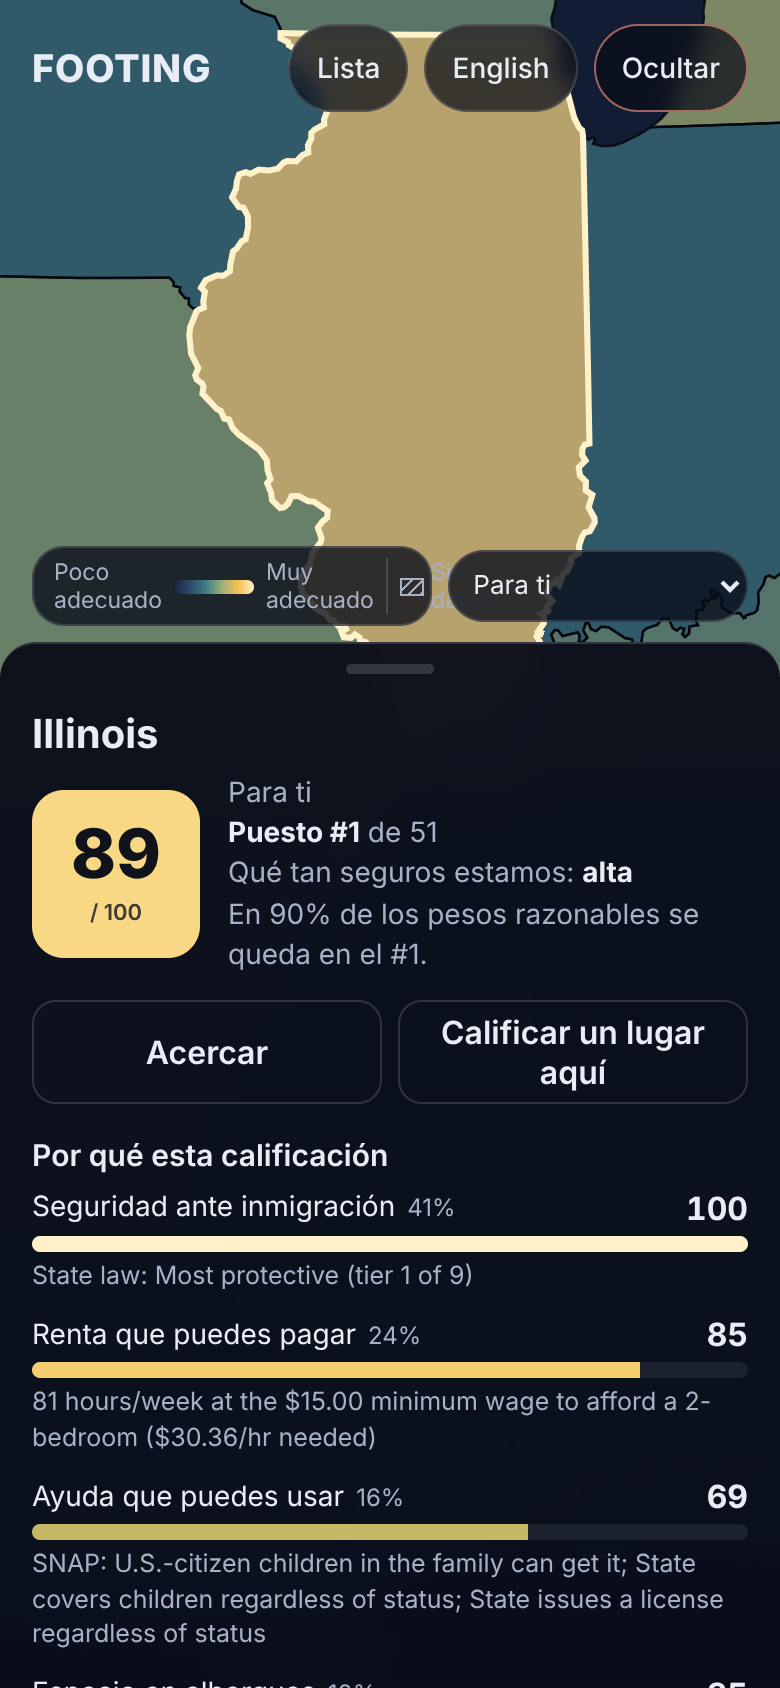
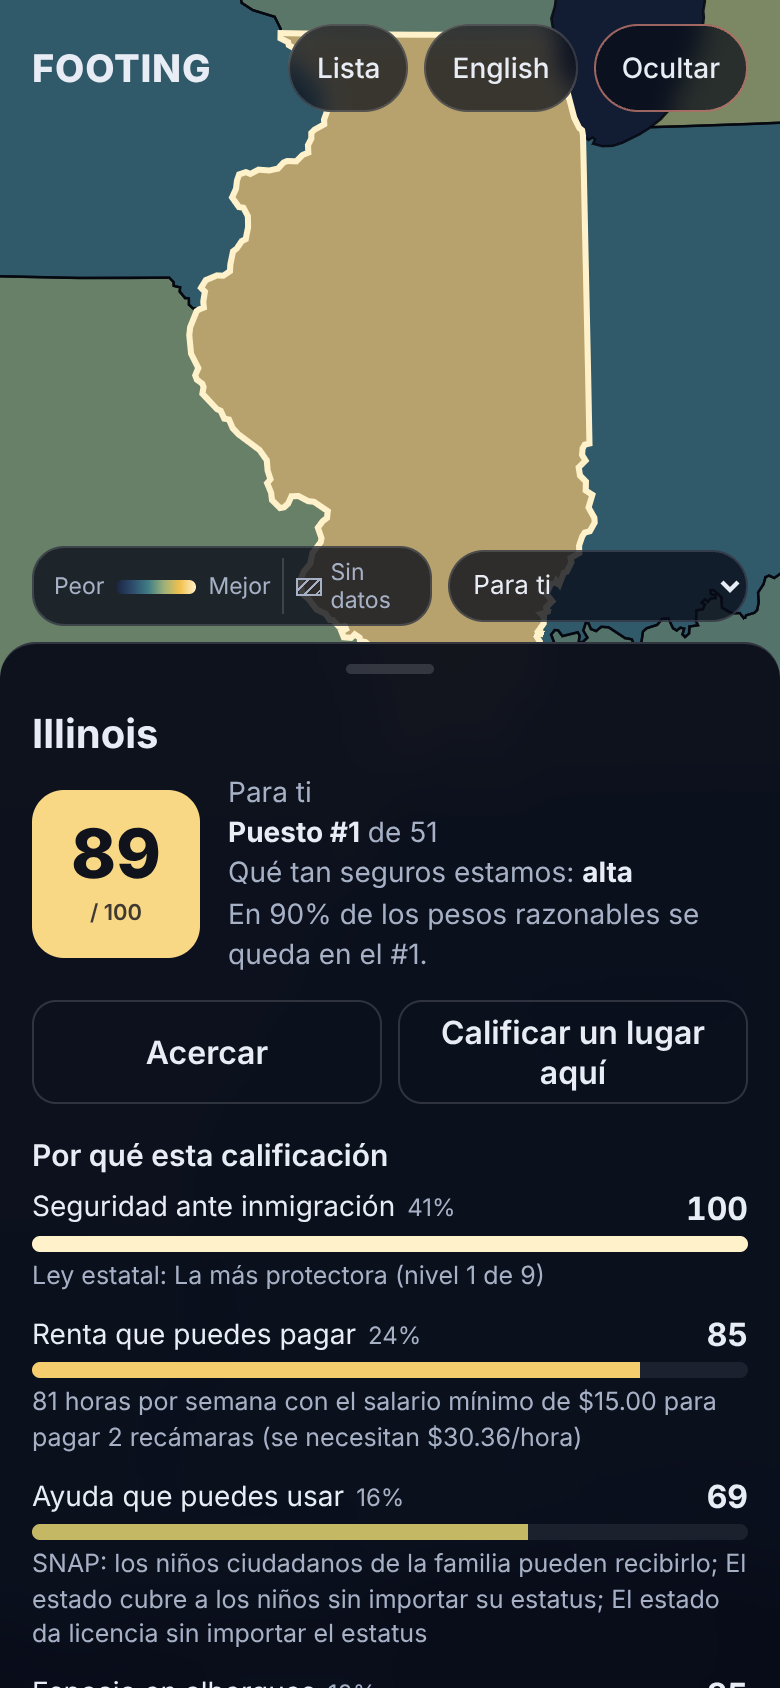
Ratings: reject NaN/inf/out-of-range coordinates (was a 500); add an in-memory per-network daily limit
Device tokens are minted by the phone, so the per-device cap alone could be bypassed by a script.
Addresses are hashed with a per-process salt and never stored. Docs and screenshots refreshed.

Claude-Session: https://claude.ai/code/session_019xmk1cFtfAvRTZQNR8T5XY

diff --git a/footing/api.py b/footing/api.py
@@ -5,7 +5,9 @@ logged or stored per user. Endpoints live under /api; the app itself is served a
 """
 from __future__ import annotations
 
+import hashlib
 import json
+import secrets
 import time
 from pathlib import Path
 
@@ -137,8 +139,34 @@ def policy() -> dict:
     return {"states": load_policy(), "eligibility": load_eligibility()}
 
 
+# The device token is made by the phone, so a script can mint a new one per request and get around the
+# per-device limit. This second limit counts ratings per network address per day, in memory only: the address
+# is hashed with a per-process salt, never written to disk, and the table resets with the process.
+IP_LIMIT_PER_DAY = 40
+_IP_SALT = secrets.token_hex(16)
+_IP_COUNTS: dict[str, list[float]] = {}
+
+
+def _ip_allowed(request: Request) -> bool:
+    fwd = request.headers.get("x-forwarded-for", "")
+    addr = fwd.split(",")[0].strip() or (request.client.host if request.client else "")
+    key = hashlib.sha256((_IP_SALT + addr).encode()).hexdigest()[:24]
+    now = time.time()
+    hits = [t for t in _IP_COUNTS.get(key, []) if now - t < 86_400]
+    if len(hits) >= IP_LIMIT_PER_DAY:
+        _IP_COUNTS[key] = hits
+        return False
+    hits.append(now)
+    _IP_COUNTS[key] = hits
+    if len(_IP_COUNTS) > 50_000:                      # bounded memory
+        _IP_COUNTS.clear()
+    return True
+
+
 @router.post("/ratings")
-def add_rating(body: dict = Body(...)) -> dict:
+def add_rating(request: Request, body: dict = Body(...)) -> dict:
+    if not _ip_allowed(request):
+        raise HTTPException(status_code=429, detail="too many ratings from this network today")
     try:
         return ratings_store.add(body)
     except ratings_store.RatingError as e:

diff --git a/tests/test_ratings_and_globe_api.py b/tests/test_ratings_and_globe_api.py
@@ -94,3 +94,25 @@ def test_api_policy_ratings_and_static(tmp_path, monkeypatch):
     for path in ("/fit.js", "/globe.js", "/globe.css", "/i18n.js", "/vendor/maplibre-gl.js",
                  "/vendor/topojson-client.min.js", "/data/states-10m.json", "/data/countries-110m.json"):
         assert client.get(path).status_code == 200, path
+
+
+@pytest.mark.parametrize("lat", ["nan", "inf", 1e309, 91, -91])
+def test_bad_coordinates_are_a_400_not_a_crash(conn, lat):
+    with pytest.raises(ratings.RatingError, match="real coordinates"):
+        ratings.add({"lat": lat, "lon": -80.4, "device": DEV, "overall": 3}, conn, NOW)
+
+
+def test_network_limit_stops_token_minting(tmp_path, monkeypatch):
+    from footing import api
+    monkeypatch.setenv("FOOTING_RATINGS_DB", str(tmp_path / "r.sqlite"))
+    monkeypatch.setattr(api, "IP_LIMIT_PER_DAY", 3)
+    monkeypatch.setattr(api, "_IP_COUNTS", {})
+    client = TestClient(app)
+    codes = []
+    for i in range(5):            # a new device token every time, and a new spot, from one address
+        body = {"lat": 37.10 + i * 0.03, "lon": -80.40, "device": f"minted-token-{i:08d}", "overall": 1}
+        codes.append(client.post("/api/ratings", json=body, headers={"x-forwarded-for": "203.0.113.9"}).status_code)
+    assert codes == [200, 200, 200, 429, 429]
+    other = client.post("/api/ratings", json={**CBURG, "device": "another-person-token", "overall": 4},
+                        headers={"x-forwarded-for": "198.51.100.7"})
+    assert other.status_code == 200

diff --git a/footing/ratings.py b/footing/ratings.py
@@ -13,6 +13,7 @@ from __future__ import annotations
 
 import hashlib
 import json
+import math
 import os
 import secrets
 import sqlite3
@@ -82,6 +83,8 @@ def add(body: dict, conn: sqlite3.Connection | None = None, now_ms: float | None
         lat, lon = float(body["lat"]), float(body["lon"])
     except (KeyError, TypeError, ValueError):
         raise RatingError("lat and lon are required")
+    if not (math.isfinite(lat) and math.isfinite(lon) and -90 <= lat <= 90 and -180 <= lon <= 180):
+        raise RatingError("lat and lon must be real coordinates")
     device = str(body.get("device") or "")
     if not 16 <= len(device) <= 64:
         raise RatingError("device token must be 16-64 characters")

diff --git a/README.md b/README.md
@@ -39,8 +39,9 @@ point ─▶ snap to ~1 km tile ─▶ 15 source adapters ─▶ places + measur
 pip install -e ".[dev]"
 FOOTING_MODE=replay uvicorn footing.api:app --port 8080     # open http://localhost:8080
 python -m footing receipt --lat 37.1299 --lon -80.4089 --profile car,kids   # same data, CLI
-pytest -q                                                    # 115 tests
-python scripts/build_standalone_demo.py out/demo             # no-server copy of the globe (see HANDOFF §8)
+pytest -q                                                    # 123 tests
+python scripts/build_standalone_demo.py out/demo             # no-server copy of the globe
+python scripts/ui_standalone_smoke.py http://localhost:8799 out/standalone   # click-through of that copy
 python -m footing fit --status undocumented --kids --mixed  # Fit Score ranking, CLI
 ```
 
@@ -186,8 +187,11 @@ Profile chips (car, kids, tonight, on foot) re-weight categories; they never cha
 
 ## Not done yet
 
-* Globe: the camping-law table covers 8 states; the rest are Unknown (not "no ban"). No state-level
-  job or weather data. Per-state "why" sentences are English only. Satellite imagery (EOX
+* Globe: the camping-law table covers 8 states (6 bans or contested bans, plus Georgia and Oklahoma, whose
+  laws push local enforcement and score 25); the rest are Unknown (not "no ban"). Policy data had a second
+  check on Oct 24 (`docs/FACT_CHECK.md`) but has not been reviewed by a legal-aid professional. No state-level
+  job or weather data. Per-state "why" sentences are translated; notes quoted from source documents
+  stay in English and are marked "(en inglés)". Satellite imagery (EOX
   Sentinel-2 cloudless, CC BY-NC-SA) is non-commercial and needs a connection; the vector map works
   offline. Ratings live in SQLite (`FOOTING_RATINGS_DB`); on Cloud Run that is per-instance and
   temporary until a volume or database is attached.

diff --git a/docs/DEVPOST.md b/docs/DEVPOST.md
@@ -88,7 +88,7 @@ side of the API before any source is called.
   food programs for immigrants, camping laws), each field cited. A build script validates the data
   against publisher totals: the state PIT counts sum to HUD's 745,652.
 * **API:** FastAPI. **App:** a no-build PWA (vanilla JS) with an offline cache.
-* **Tests:** 115 pytest tests on real captured responses (Christiansburg, VA, Oct 24 2026) and
+* **Tests:** 123 pytest tests on real captured responses (Christiansburg, VA, Oct 24 2026) and
   labeled synthetic responses, Playwright runs of every screen at phone and desktop size (the globe run also fails if any
   profile word appears in any request), and a clean-install
   check of the packaged app.
